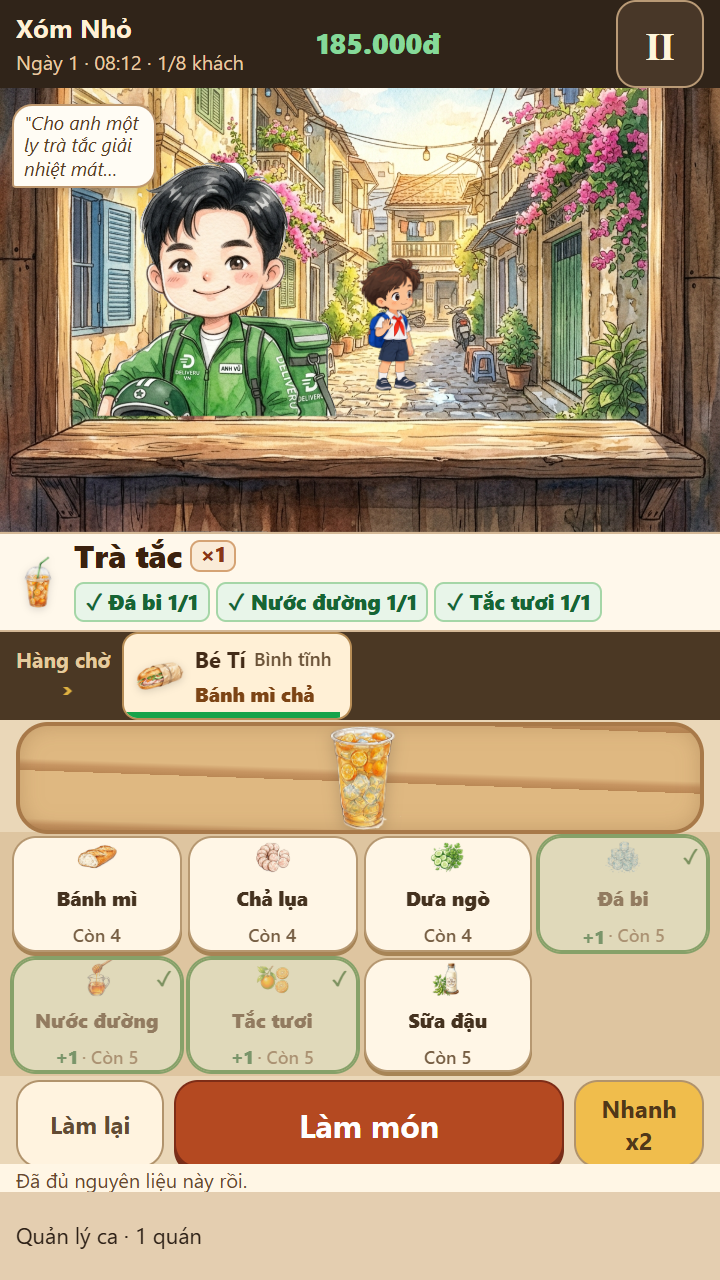
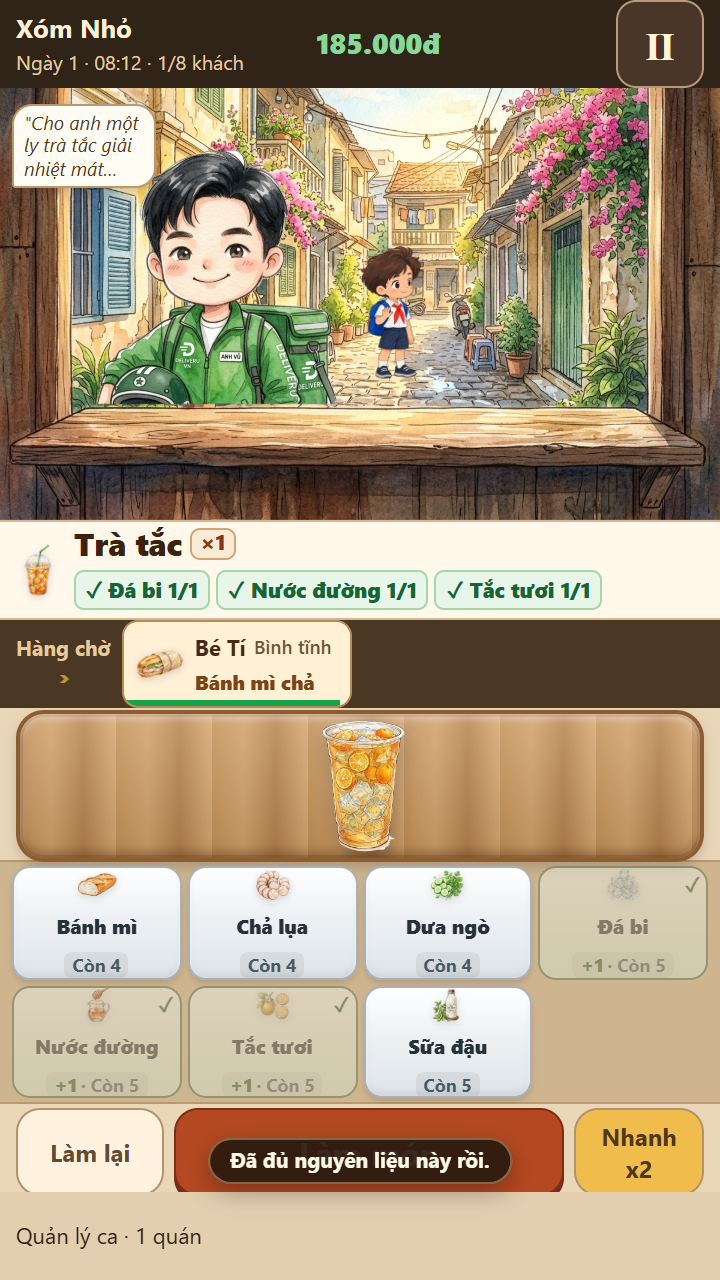
feat(ui): redesign kitchen workspace with enlarged dish, realistic stainless wells, and clean layout
- Elevate workbench to 76px with rich beveled wooden prep station aesthetic; enlarge assembling dish art by +32%.
- Redesign ingredient tray buttons into authentic stainless steel topping insert wells (khay inox sâu lòng).
- Remove redundant secondary text rows (play-status now floating toast only on active messages; subtle engraved cutting board hint).
- Fix duplicate queue customer bug at 08:07 by properly synchronizing spawnedIndex in sub-shop state.
- Deliver updated pristine 5 screenshots from a single continuous playthrough.

diff --git a/game/style.css b/game/style.css
@@ -2633,7 +2633,7 @@ button:focus-visible, [role=button]:focus-visible { outline: 3px solid #0e7490; 
 
 /* Hands-on mobile kitchen: all cooking controls share the visible viewport. */
 #app[data-screen="SHOP"] { height: 100dvh; min-height: 0; overflow: hidden; }
-.play-screen { height:100%; display:grid; grid-template-rows:48px minmax(200px,1fr) auto 48px 60px 136px 48px 18px 44px; gap:0; background:#ead7b8; padding-bottom:env(safe-area-inset-bottom); }
+.play-screen { height:100%; display:grid; grid-template-rows:48px minmax(200px,1fr) auto 48px 80px 136px 48px 44px; gap:0; background:#ead7b8; padding-bottom:env(safe-area-inset-bottom); }
 .play-header { display:flex; align-items:center; gap:6px; padding:4px 8px; background:#302419; color:#fff0d6; }
 .play-header>div { min-width:0; flex:1; }
 .play-header b { display:block; white-space:nowrap; overflow:hidden; text-overflow:ellipsis; font-size:14px; }
@@ -2680,18 +2680,18 @@ button:focus-visible, [role=button]:focus-visible { outline: 3px solid #0e7490; 
 .queue-ticket.chosen { background:#ffdf8b; border:2px solid #e2ab24; }
 .queue-empty-note { font-size:11px; color:#d8c29f; font-style:italic; white-space:nowrap; }
 .play-pause-overlay { position:absolute; inset:0; background:#30241990; z-index:50; color:#fff; display:grid; place-items:center; font-size:20px; font-weight:800; }
-.cooking-board {margin:5px 10px;position:relative;border:2px solid #a87949;border-radius:16px;background:repeating-linear-gradient(2deg,#ba8855 0px,#c79562 3px,#dfb881 6px,#dfb881 30px);box-shadow:inset 0 0 10px #70482340;display:flex;align-items:center;justify-content:center;gap:10px;overflow:hidden;color:#51301b;font-size:12px;min-height:64px}
-.cooking-board>b{font-size:11px;max-width:100px}.selected-art{display:flex;align-items:center;justify-content:center;gap:2px;max-width:65%;height:63px}.selected-art img{width:50px;height:58px;object-fit:contain;animation:ingredientDrop .2s ease-out}.prep-assembly{position:relative;display:flex;align-items:center;justify-content:center;height:100%;width:100%}.prep-assembly-dish{display:flex;align-items:center;justify-content:center;height:100%;width:100%}.prep-art-banhmi{height:58px;width:auto;max-width:220px;object-fit:contain;filter:drop-shadow(0 2px 4px rgba(0,0,0,0.22));animation:ingredientDrop .25s ease-out}.prep-art-drink{height:60px;width:auto;max-width:120px;object-fit:contain;filter:drop-shadow(0 2px 4px rgba(0,0,0,0.18));animation:ingredientDrop .25s ease-out}.finished-dish-wrap{display:flex;align-items:center;justify-content:center;height:100%;width:100%}.finished-dish{height:58px;width:auto;max-width:120px;object-fit:contain;filter:drop-shadow(0 3px 5px rgba(0,0,0,0.22));animation:ingredientDrop .25s ease-out}.finished-dish.dish-TRA_TAC,.finished-dish.dish-SUA_DAU_DA{height:60px}.finished-dish.dish-BANH_MI_CHA,.finished-dish.dish-BANH_MI_TRUNG{height:50px;max-width:115px}.prep-idle-state,.prep-handoff-state{display:flex;align-items:center;justify-content:center;width:100%;height:100%}.prep-board-hint{font-size:11.5px;font-weight:600;color:#5c3c22;opacity:0.85}.prep-handoff-state span{font-size:12px;font-weight:700;color:#166534;background:rgba(255,255,255,0.65);padding:3px 10px;border-radius:8px}.upgrade-header-row{display:flex;align-items:center;gap:6px;margin-bottom:2px}.upgrade-icon{font-size:18px;line-height:1}.upgrade-header-row b{font-size:13px;font-weight:800}.is-cooking .selected-art,.is-cooking .prep-assembly,.is-cooking .prep-assembly-dish{animation:cookSway .5s ease-in-out infinite alternate}.cook-progress{position:absolute;bottom:0;left:0;height:4px;width:100%;background:#f4d5a2}.cook-progress i{display:block;height:100%;background:#a65020}
-.ingredient-tray {display:grid;grid-template-columns:repeat(4,minmax(0,1fr));grid-template-rows:repeat(2,minmax(0,1fr));gap:5px;padding:3px 8px 5px;background:#dec5a0}
-.ingredient-button {position:relative;padding:2px 2px;display:flex;flex-direction:column;align-items:center;justify-content:center;min-width:44px;min-height:44px;border:1.5px solid #b69871;border-radius:12px;background:#fff6e6;box-shadow:0 2px 0 #a78455;color:#45321f;overflow:hidden}.ingredient-button img{width:44px;height:22px;object-fit:contain;pointer-events:none}.ingredient-button b{font-size:10.5px;line-height:1.15;margin:0}.ingredient-button small{font-size:9.5px;height:14px;min-height:14px;line-height:14px;color:#765e43;display:flex;align-items:center;justify-content:center;gap:2px;max-width:100%;text-align:center;white-space:nowrap}.ing-stock-line .ing-picked{color:#166534;font-weight:800;font-size:9.5px;line-height:14px}.ingredient-button.picked{border-color:#2e7d32;outline:1px solid #2e7d32;background:#e7f3d8}.ingredient-button.quota-met{border-color:#2e7d32;background:#e2eed3;opacity:0.85}.ingredient-button.quota-met:after{content:'✓';position:absolute;top:2px;right:4px;font-size:10px;font-weight:900;color:#1b5e20}.ingredient-button:active{transform:translateY(2px)}.ingredient-button:disabled{opacity:.5;box-shadow:none}.egg-placeholder{height:22px;display:grid;place-items:center;font-size:11px}
-.cook-actions{display:flex;gap:6px;padding:3px 8px 5px;background:#ead7b8}.cook-actions button{border-radius:12px;border:1px solid #b1936c;font-weight:750;font-size:12px;min-width:54px;min-height:44px}.cook-main{flex:1;background:#b44921;color:white;font-size:16px!important;border-color:#7e2d17!important;box-shadow:0 3px 0 #772e19}.cook-main.ready{background:#2d8157;border-color:#1d5139!important;box-shadow:0 3px 0 #1d5139}.cook-main:disabled{background:#bfb098;border-color:#ab987d!important;color:#665640;box-shadow:none}.undo-button{background:#fff3df;color:#624b32}.boost-button{background:#f0bd4c;color:#513719;max-width:65px}.cook-actions button:disabled{opacity:.65}
-.play-status{font-size:11px;padding:3px 10px;background:#fff6e5;color:#68472c;white-space:nowrap;overflow:hidden;text-overflow:ellipsis}.play-options{font-size:11px;background:#e4ceb0;position:relative}.play-options summary{height:44px;min-height:44px;display:flex;align-items:center;padding:0 12px;cursor:pointer}.play-options[open]>div{position:absolute;bottom:44px;right:0;left:0;background:#fff4de;z-index:90;padding:10px;box-shadow:0 -4px 18px #382b1740;display:grid;gap:8px}.play-options button{background:#f5e2c3;border:1px solid #b59770;border-radius:10px;min-height:44px}.play-options small{font-size:12px}
+.cooking-board {margin:3px 8px;position:relative;border:2.5px solid #8d5c31;border-radius:14px;background:linear-gradient(180deg,rgba(255,255,255,0.18) 0%,rgba(0,0,0,0.08) 100%),repeating-linear-gradient(90deg,#c28e53 0px,#cf9e65 16px,#b47f48 32px,#d5a56d 48px);box-shadow:inset 0 2px 4px rgba(255,255,255,0.45),inset 0 -3px 5px rgba(60,30,10,0.35),inset 0 0 0 1.5px rgba(120,68,25,0.3),0 3px 6px rgba(0,0,0,0.16);display:flex;align-items:center;justify-content:center;gap:10px;overflow:hidden;color:#51301b;font-size:12px;min-height:76px;height:76px}
+.cooking-board>b{font-size:11px;max-width:100px}.selected-art{display:flex;align-items:center;justify-content:center;gap:2px;max-width:75%;height:72px}.selected-art img{width:56px;height:66px;object-fit:contain;animation:ingredientDrop .2s ease-out}.prep-assembly{position:relative;display:flex;align-items:center;justify-content:center;height:100%;width:100%}.prep-assembly-dish{display:flex;align-items:center;justify-content:center;height:100%;width:100%}.prep-art-banhmi{height:66px;width:auto;max-width:240px;object-fit:contain;filter:drop-shadow(0 4px 6px rgba(0,0,0,0.28));animation:ingredientDrop .25s ease-out}.prep-art-drink{height:68px;width:auto;max-width:130px;object-fit:contain;filter:drop-shadow(0 4px 6px rgba(0,0,0,0.22));animation:ingredientDrop .25s ease-out}.finished-dish-wrap{display:flex;align-items:center;justify-content:center;height:100%;width:100%}.finished-dish{height:66px;width:auto;max-width:140px;object-fit:contain;filter:drop-shadow(0 4px 6px rgba(0,0,0,0.25));animation:ingredientDrop .25s ease-out}.finished-dish.dish-TRA_TAC,.finished-dish.dish-SUA_DAU_DA{height:68px}.finished-dish.dish-BANH_MI_CHA,.finished-dish.dish-BANH_MI_TRUNG{height:64px;max-width:140px}.prep-idle-state,.prep-handoff-state{display:flex;align-items:center;justify-content:center;width:100%;height:100%}.prep-board-hint{font-size:11px;font-weight:800;letter-spacing:2px;color:rgba(100,55,25,0.4);text-transform:uppercase;font-family:inherit}.prep-handoff-state span{font-size:11.5px;font-weight:800;color:#166534;background:rgba(255,255,255,0.85);padding:2px 8px;border-radius:6px;box-shadow:0 1px 3px rgba(0,0,0,0.15)}.upgrade-header-row{display:flex;align-items:center;gap:6px;margin-bottom:2px}.upgrade-icon{font-size:18px;line-height:1}.upgrade-header-row b{font-size:13px;font-weight:800}.is-cooking .selected-art,.is-cooking .prep-assembly,.is-cooking .prep-assembly-dish{animation:cookSway .5s ease-in-out infinite alternate}.cook-progress{position:absolute;bottom:0;left:0;height:4px;width:100%;background:#f4d5a2}.cook-progress i{display:block;height:100%;background:#a65020}
+.ingredient-tray {display:grid;grid-template-columns:repeat(4,minmax(0,1fr));grid-template-rows:repeat(2,minmax(0,1fr));gap:4px;padding:3px 6px 4px;background:#cfb58f;border-top:1.5px solid #b89a70;border-bottom:1.5px solid #b89a70}
+.ingredient-button {position:relative;padding:2px 1px 2px;display:flex;flex-direction:column;align-items:center;justify-content:center;min-width:44px;min-height:44px;border:1.5px solid #a6b1ba;border-radius:9px;background:linear-gradient(180deg,#ffffff 0%,#edf1f4 45%,#dfe4e8 100%);box-shadow:inset 0 1px 2px rgba(255,255,255,0.9),inset 0 -2px 3px rgba(0,0,0,0.07),0 2px 3px rgba(50,30,10,0.14);color:#2c3e50;overflow:hidden}.ingredient-button img{width:40px;height:22px;object-fit:contain;pointer-events:none;filter:drop-shadow(0 1px 2px rgba(0,0,0,0.15))}.ingredient-button b{font-size:10px;font-weight:800;line-height:1.15;margin:1px 0 0;color:#263238}.ingredient-button small{font-size:9px;font-weight:700;height:13px;min-height:13px;line-height:13px;color:#455a64;display:flex;align-items:center;justify-content:center;gap:2px;background:rgba(0,0,0,0.06);border-radius:4px;padding:0 4px;margin-top:1px}.ing-stock-line .ing-picked{color:#1b5e20;font-weight:900;font-size:9.5px;line-height:13px}.ingredient-button.picked{border-color:#2e7d32;background:linear-gradient(180deg,#f1f8e9 0%,#dcedc8 100%);box-shadow:inset 0 0 0 1.5px #43a047,0 2px 4px rgba(46,125,50,0.22)}.ingredient-button.quota-met{border-color:#2e7d32;background:linear-gradient(180deg,#e8f5e9 0%,#c8e6c9 100%)}.ingredient-button.quota-met:after{content:'✓';position:absolute;top:1px;right:3px;font-size:10px;font-weight:900;color:#1b5e20}.ingredient-button:active{transform:translateY(2px)}.ingredient-button:disabled{opacity:.45;box-shadow:none;filter:grayscale(40%)}.egg-placeholder{height:22px;display:grid;place-items:center;font-size:11px}
+.cook-actions{display:flex;gap:5px;padding:3px 8px 4px;background:#ead7b8}.cook-actions button{border-radius:12px;border:1px solid #b1936c;font-weight:750;font-size:12px;min-width:54px;min-height:44px}.cook-main{flex:1;background:#b44921;color:white;font-size:16px!important;border-color:#7e2d17!important;box-shadow:0 3px 0 #772e19}.cook-main.ready{background:#2d8157;border-color:#1d5139!important;box-shadow:0 3px 0 #1d5139}.cook-main:disabled{background:#bfb098;border-color:#ab987d!important;color:#665640;box-shadow:none}.undo-button{background:#fff3df;color:#624b32}.boost-button{background:#f0bd4c;color:#513719;max-width:65px}.cook-actions button:disabled{opacity:.65}
+.play-status{position:absolute;bottom:52px;left:50%;transform:translateX(-50%);background:rgba(40,24,14,0.92);color:#fff9e6;font-size:11px;font-weight:700;padding:4px 14px;border-radius:20px;box-shadow:0 4px 12px rgba(0,0,0,0.3);z-index:100;pointer-events:none;white-space:nowrap;border:1px solid rgba(255,220,150,0.4);transition:opacity 0.2s ease}.play-status:empty{display:none}.play-options{font-size:11px;background:#e4ceb0;position:relative}.play-options summary{height:44px;min-height:44px;display:flex;align-items:center;padding:0 12px;cursor:pointer}.play-options[open]>div{position:absolute;bottom:44px;right:0;left:0;background:#fff4de;z-index:90;padding:10px;box-shadow:0 -4px 18px #382b1740;display:grid;gap:8px}.play-options button{background:#f5e2c3;border:1px solid #b59770;border-radius:10px;min-height:44px}.play-options small{font-size:12px}
 .morning-dashboard,.end-day {padding:16px;max-width:100%}.morning-hero{height:145px;border-radius:20px;background:linear-gradient(0deg,#392811a0,#39281105),url('../assets/environment/alley_counter_clean.jpg') center 47%/cover;color:#fff3da;padding:20px;display:flex;flex-direction:column;justify-content:flex-end}.morning-hero h2{font-size:26px;margin:0}.morning-hero span{font-weight:750;text-shadow:0 2px 2px #333}.day-stats{display:grid;grid-template-columns:repeat(3,minmax(0,1fr));gap:6px;margin:12px 0}.day-stats>div{padding:12px 5px;border:1px solid #cfb792;border-radius:13px;background:#fff5e2;text-align:center}.day-stats b{font-size:18px;color:#694526;display:block;overflow-wrap:anywhere}.day-stats small{font-size:11px;color:#806a50;display:block}.forecast-card{padding:12px;background:#eee1c6;border-radius:13px;margin:12px 0}.forecast-card p{font-size:13px;margin:5px 0 0}.morning-help,.morning-details{font-size:13px;color:#74573c}.morning-details{margin-top:12px}.morning-details summary,.end-day summary{min-height:44px;padding:12px;background:#f0e1c7;border-radius:10px;cursor:pointer}.upgrade-grid{display:grid;grid-template-columns:1fr 1fr;gap:8px;margin-bottom:10px}.upgrade-grid button{min-height:100px;border:1px solid #cbb593;border-radius:14px;background:#fff4e0;padding:10px;text-align:left;color:#61442b}.upgrade-grid b,.upgrade-grid span,.upgrade-grid small{display:block}.upgrade-grid b{font-size:13px}.upgrade-grid span{font-size:12px;color:#a54c20;margin:4px 0}.upgrade-grid small{font-size:11px;line-height:1.3}.morning-dashboard .btn-secondary{margin:6px 0;min-height:44px;font-size:13px;padding:12px}.morning-dashboard h3,.end-day h3{font-size:15px;margin:15px 0 8px}.end-day h2{font-size:23px;margin:5px 0 12px}.end-day-badge{color:#98713c;font-size:13px;font-weight:800}.feedback-cards{display:grid;gap:8px}.feedback-cards>div{border-left:3px solid #b28750;padding:10px 12px;border-radius:8px;background:#fff4df}.feedback-cards b{font-size:13px;color:#79522e}.feedback-cards p{font-size:13px;margin:4px 0 0}.next-tip{font-size:13px;color:#7b5c37}.result-countdown{display:block;text-align:center;font-size:11px;margin:8px 0 15px}.compact-ledger{padding:10px;font-size:12px}.compact-ledger>div{display:flex;justify-content:space-between;gap:8px;border-bottom:1px dashed #d0b794;padding:6px 0}.compact-ledger p{font-size:12px}.compact-ledger h3{font-size:14px}
 /* Preparation is a short game dashboard rather than a long document. */
 .market-screen,.menu-screen{padding:10px 12px}.capacity-banner{padding:10px;margin-bottom:8px}.capacity-header{font-size:12px}.btn-bundle{padding:10px;font-size:13px}.btn-bundle small{font-size:10px;line-height:1.3}.market-list{display:grid;grid-template-columns:1fr 1fr;gap:7px}.market-item-card{display:flex;flex-wrap:wrap;padding:6px;gap:4px;border-radius:12px;min-width:0}.market-item-img{width:42px;height:36px;object-fit:contain}.market-item-info{flex:1;min-width:75px;gap:0}.market-item-info strong{font-size:12px}.market-item-info span{font-size:11px}.market-item-info small{display:none}.stepper{width:100%;justify-content:space-between;gap:2px}.step-btn{width:44px;height:44px}.market-checkout-dock{padding:8px 0;position:sticky;bottom:0;background:#fbf6ee}.checkout-summary{font-size:12px;margin-bottom:6px}.market-note{font-size:11px}.menu-intro{margin:0 0 8px}.menu-intro h3{font-size:15px;margin:0}.menu-intro p{font-size:12px;margin:3px 0}
 .menu-card{padding:10px 12px;margin:0 0 10px;border-radius:14px;background:#fffcf5;border:1.5px solid #d5be9b}.menu-card.locked-dish{background:#f6efe2;border-style:dashed}.menu-card-top{display:flex;align-items:center;gap:10px;margin-bottom:6px}.menu-dish-thumb{width:44px;height:44px;object-fit:contain;flex-shrink:0;filter:drop-shadow(0 2px 3px rgba(0,0,0,0.12))}.menu-dish-identity{flex:1;min-width:0}.menu-toggle{display:flex;align-items:center;gap:6px;min-height:32px;cursor:pointer}.menu-toggle input{width:20px;height:20px;margin:0;cursor:pointer;flex-shrink:0}.menu-toggle strong{font-size:14px;font-weight:800;color:#3b2210}.cost-estimate{display:block;font-size:11px;color:#765b3c;margin-top:1px}.menu-lock-condition{padding:6px 10px;background:#f0e4cf;border:1px solid #d0bc9b;border-radius:8px;font-size:11px;font-weight:600;color:#754f24;margin:4px 0 6px}.price-tiers-row{display:flex;align-items:center;justify-content:space-between;margin:6px 0;gap:6px}.price-tier-label{font-size:11px;font-weight:600;color:#583c22}.price-tier-buttons{display:flex;gap:6px}.price-tier-btn{min-width:44px;min-height:44px;padding:6px 12px;border:1.5px solid #bba17b;border-radius:10px;background:#f6ebd8;color:#4e341b;font-weight:700;font-size:13px}.price-tier-btn.selected{background:#b44921;color:#ffffff;border-color:#7e2d17}.menu-margin-preview{font-size:11px;color:#216d3f;font-weight:600;margin-top:4px}.price-demand-hint{font-size:11px;color:#b45309;margin-top:3px}.opening-time-section{padding:8px;margin-top:8px}.opening-time-section label{font-size:12px}.time-btn{min-height:44px;padding:6px;font-size:12px}.opening-note{font-size:11px;margin:6px 0}.menu-footer{padding:8px 0}.btn-primary{min-height:48px;font-size:15px;padding:12px;border-radius:14px}.cover-tag{font-size:11px}.cover-desc{font-size:14px}.top-nav{min-height:54px}
 @keyframes ingredientDrop{from{transform:translateY(-12px);opacity:0}to{transform:translateY(0);opacity:1}}@keyframes cookSway{from{transform:translateX(-3px)}to{transform:translateX(3px)}}@keyframes reactBounce{50%{transform:translateY(-5px)}}
-@media(max-height:640px){.play-screen{grid-template-rows:44px minmax(180px,1fr) auto 44px 56px 122px 44px 14px 44px}.play-header{padding:2px 8px}.play-header b{font-size:13px}.play-header small{font-size:10px}.play-pause{width:44px;height:44px;font-size:19px}.active-order-strip{padding:2px 6px;min-height:38px;gap:2px}.order-strip-main{gap:5px}.order-strip-main .ticket-dish-img{width:26px;height:26px}.ticket-dish-name{font-size:16px;font-weight:800;line-height:1.15}.ticket-qty-pill{font-size:10.5px;padding:0 4px}.ticket-special-badge{font-size:10px;padding:0 4px}.active-order-strip .receipt-checklist{gap:3px;flex-wrap:wrap}.receipt-item{font-size:10.5px;padding:2px 5px}.queue-ticket{min-height:44px;height:44px;padding:1px 6px}.queue-dish-thumb{width:24px;height:24px}.queue-dish-name{font-size:10px;font-weight:800;text-overflow:clip}.cooking-board{margin:1px 8px;min-height:56px;height:56px;font-size:11px}.prep-assembly-dish{height:100%}.prep-art-banhmi{height:50px;width:auto;max-width:180px}.prep-art-drink{height:52px;width:auto;max-width:100px}.selected-art{height:38px}.selected-art img{height:34px;width:32px}.finished-dish{height:38px;width:auto;max-width:90px}.finished-dish.dish-TRA_TAC,.finished-dish.dish-SUA_DAU_DA{height:40px}.finished-dish.dish-BANH_MI_CHA,.finished-dish.dish-BANH_MI_TRUNG{height:36px;max-width:90px}.ingredient-tray{gap:3px;padding:2px 6px}.ingredient-button{padding:1px;min-height:44px}.ingredient-button img{height:19px}.ingredient-button b{font-size:10px;margin:0;line-height:1.1}.ingredient-button small{font-size:9px;height:13px;min-height:13px;line-height:13px}.cook-actions{padding:2px 8px 3px;gap:5px}.cook-actions button{min-height:44px}.play-status{font-size:10px;padding:1px 8px;line-height:14px;height:14px}.play-options summary{height:44px;min-height:44px;display:flex;align-items:center;padding:0 8px;font-size:11px}}
+@media(max-height:640px){.play-screen{grid-template-rows:44px minmax(180px,1fr) auto 44px 76px 122px 44px 44px}.play-header{padding:2px 8px}.play-header b{font-size:13px}.play-header small{font-size:10px}.play-pause{width:44px;height:44px;font-size:19px}.active-order-strip{padding:2px 6px;min-height:38px;gap:2px}.order-strip-main{gap:5px}.order-strip-main .ticket-dish-img{width:26px;height:26px}.ticket-dish-name{font-size:16px;font-weight:800;line-height:1.15}.ticket-qty-pill{font-size:10.5px;padding:0 4px}.ticket-special-badge{font-size:10px;padding:0 4px}.active-order-strip .receipt-checklist{gap:3px;flex-wrap:wrap}.receipt-item{font-size:10.5px;padding:2px 5px}.queue-ticket{min-height:44px;height:44px;padding:1px 6px}.queue-dish-thumb{width:24px;height:24px}.queue-dish-name{font-size:10px;font-weight:800;text-overflow:clip}.cooking-board{margin:1px 8px;min-height:76px;height:76px;font-size:11px}.prep-assembly-dish{height:100%}.prep-art-banhmi{height:64px;width:auto;max-width:220px}.prep-art-drink{height:66px;width:auto;max-width:120px}.selected-art{height:64px}.selected-art img{height:58px;width:48px}.finished-dish{height:64px;width:auto;max-width:130px}.finished-dish.dish-TRA_TAC,.finished-dish.dish-SUA_DAU_DA{height:66px}.finished-dish.dish-BANH_MI_CHA,.finished-dish.dish-BANH_MI_TRUNG{height:62px;max-width:130px}.ingredient-tray{gap:3px;padding:2px 6px}.ingredient-button{padding:1px;min-height:44px}.ingredient-button img{height:19px}.ingredient-button b{font-size:10px;margin:0;line-height:1.1}.ingredient-button small{font-size:9px;height:13px;min-height:13px;line-height:13px}.cook-actions{padding:2px 8px 3px;gap:5px}.cook-actions button{min-height:44px}.play-status{bottom:48px;font-size:10.5px;padding:3px 10px}.play-options summary{height:44px;min-height:44px;display:flex;align-items:center;padding:0 8px;font-size:11px}}
 @media(prefers-reduced-motion:reduce){.selected-art img,.finished-dish,.is-cooking .selected-art,.play-customer.react{animation:none}}
 /* Town map and staffing overlay: provisional UI, no new generated art. */
 .empire-nav{display:flex;gap:8px;margin:10px 0}.empire-nav button{flex:1;min-height:44px;border:1px solid #b8986b;border-radius:12px;padding:8px;background:#eee0c8;color:#5b4129;font-weight:700;font-size:12px}.empire-backdrop{position:fixed;inset:0;background:#2c2419b8;z-index:220;display:flex;justify-content:center;align-items:center;padding:12px}.empire-panel{width:100%;max-width:460px;max-height:calc(100dvh - 24px);overflow:auto;border:2px solid #b6915c;border-radius:20px;background:#fcf3e0;padding:15px;box-shadow:0 10px 30px #201a1680}.empire-panel>header{display:flex;align-items:center;gap:8px;justify-content:space-between}.empire-panel h2{font-size:19px;margin:0}.empire-panel>header button{min-width:44px;min-height:44px;background:#ead8b8;border:1px solid #b3966b;border-radius:12px;font-size:24px}.panel-hint{font-size:12px;color:#77593a;margin:8px 0 12px}.town-map{display:grid;gap:12px;padding:12px;border-radius:18px;background:repeating-linear-gradient(0deg,#d5c9a5 0,#d5c9a5 35px,#e8ddbf 36px,#e8ddbf 42px)}.map-location{border:2px solid #b79c70;padding:12px;border-radius:16px;background:#fff6df;box-shadow:0 3px 0 #9b8965}.map-location.school{margin-left:18px}.map-location.office{margin-right:18px}.map-location.selected{border-color:#3c8051;background:#eaf3da}.map-location.locked{background:#e3dbc9;border-style:dashed}.map-location h3{font-size:16px;margin:4px 0}.map-location p{font-size:12px;margin:6px 0}.map-location small{display:block;font-size:11px;color:#715739}.map-location button{display:block;width:100%;min-height:44px;border:1px solid #a88b5f;border-radius:11px;background:#bc5a2e;color:#fff7e2;font-size:13px;font-weight:700;margin-top:8px}.map-location button:disabled{background:#b8a78b;color:#f5eddf}.map-metrics{display:flex;justify-content:space-between;gap:6px;font-size:12px}.staff-list{display:grid;gap:9px}.employee-card{border:1px solid #c1a77b;border-radius:14px;background:#fff9ed;padding:12px}.employee-card h3{font-size:14px;margin:0 0 7px}.employee-meters{display:flex;gap:8px;flex-wrap:wrap;font-size:11px;color:#7a5836}.employee-card small{font-size:11px}.employee-actions{display:flex;flex-wrap:wrap;gap:6px;margin-top:8px}.employee-actions button{min-height:44px;flex:1;min-width:100px;border:1px solid #b69a70;border-radius:9px;background:#f2dfbb;font-size:11px;color:#533a23}.employee-actions .release-staff{background:#f4ddd1;color:#8d3c27}.hire-grid{display:grid;grid-template-columns:1fr;gap:10px}.staff-role-card{border:1px solid #c8af88;border-radius:14px;background:#fffcf5;padding:12px;box-shadow:0 2px 5px rgba(0,0,0,0.05);display:flex;flex-direction:column;gap:5px}.staff-role-card.role-locked{background:#f5eedf;border-style:dashed}.role-card-header{display:flex;justify-content:space-between;align-items:center}.role-card-header h4{margin:0;font-size:15px;font-weight:800;color:#3b2210}.role-wage{font-size:12px;font-weight:700;color:#b44921;background:#faebd7;padding:2px 7px;border-radius:6px}.role-perk{margin:0;font-size:12px;color:#583d23;line-height:1.35}.role-status-row{font-size:11px}.role-tag.hired{color:#166534;font-weight:700}.role-tag.locked{color:#854d0e;font-weight:600}.role-tag.available{color:#1e40af;font-weight:600}.btn-hire{width:100%;min-height:44px;min-width:44px;border:1.5px solid #a8885b;border-radius:10px;background:#bc5a2e;color:#fff7e2;font-size:13px;font-weight:800;cursor:pointer;margin-top:2px}.btn-hire:disabled{background:#d3c4ad;color:#705d47;border-color:#bea98e;cursor:not-allowed;opacity:0.85}.branch-results{display:grid;gap:12px;margin-bottom:15px}.branch-results article{border:1px solid #cdb58a;border-radius:15px;background:#fff5df;padding:12px}.branch-results header{display:flex;justify-content:space-between;align-items:center}.branch-results h3{font-size:16px;margin:0 0 8px}.branch-results small,.branch-results p{font-size:12px}.branch-results h4{font-size:13px;margin:10px 0 5px}.branch-results summary{font-size:12px}

diff --git a/tools/playtest/execute_single_continuous_playthrough.py b/tools/playtest/execute_single_continuous_playthrough.py
@@ -69,6 +69,8 @@ async def run_playthrough():
                 shop.service = s.service;
                 shop.dayCustomers = s.dayCustomers;
                 shop.servedOrders = s.servedOrders;
+                shop.customerIndex = s.customerIndex;
+                shop.spawnedIndex = s.spawnedIndex;
                 shop.cash = s.cash;
                 shop.revenue = s.revenue;
                 shop.clock = s.clock;
@@ -128,6 +130,8 @@ async def run_playthrough():
             if (s.empire && s.empire.shops && s.empire.shops[s.empire.activeShopId]) {
                 s.empire.shops[s.empire.activeShopId].state.clock = 7;
                 s.empire.shops[s.empire.activeShopId].state.service.phase = 'READY';
+                s.empire.shops[s.empire.activeShopId].state.spawnedIndex = 3;
+                s.empire.shops[s.empire.activeShopId].state.customerIndex = 0;
             }
             window.__xomNho.render();
         }""")
